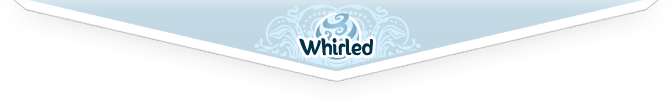
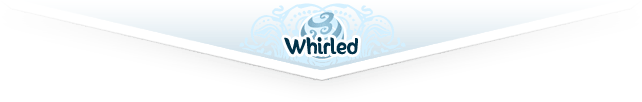
Adjusted the art since we can't determine how the e-mail client will display it.  Also changed the content border to a nicer shade.

diff --git a/rsrc/email/gotMail/message.html b/rsrc/email/gotMail/message.html
@@ -25,7 +25,7 @@ a {
 <tr><td>You received a Whirled mail:</td></tr>
 
 #if (${body})
-<tr><td style="border: 1px solid; padding: 15px;">
+<tr><td style="border: 1px solid; color: #cccccc; padding: 15px;">
 From: <a href="${server_url}/#profile-${senderId}">${sender}</a><br/>
 Subject: ${subject}<br/><br/>
 "${body}"
